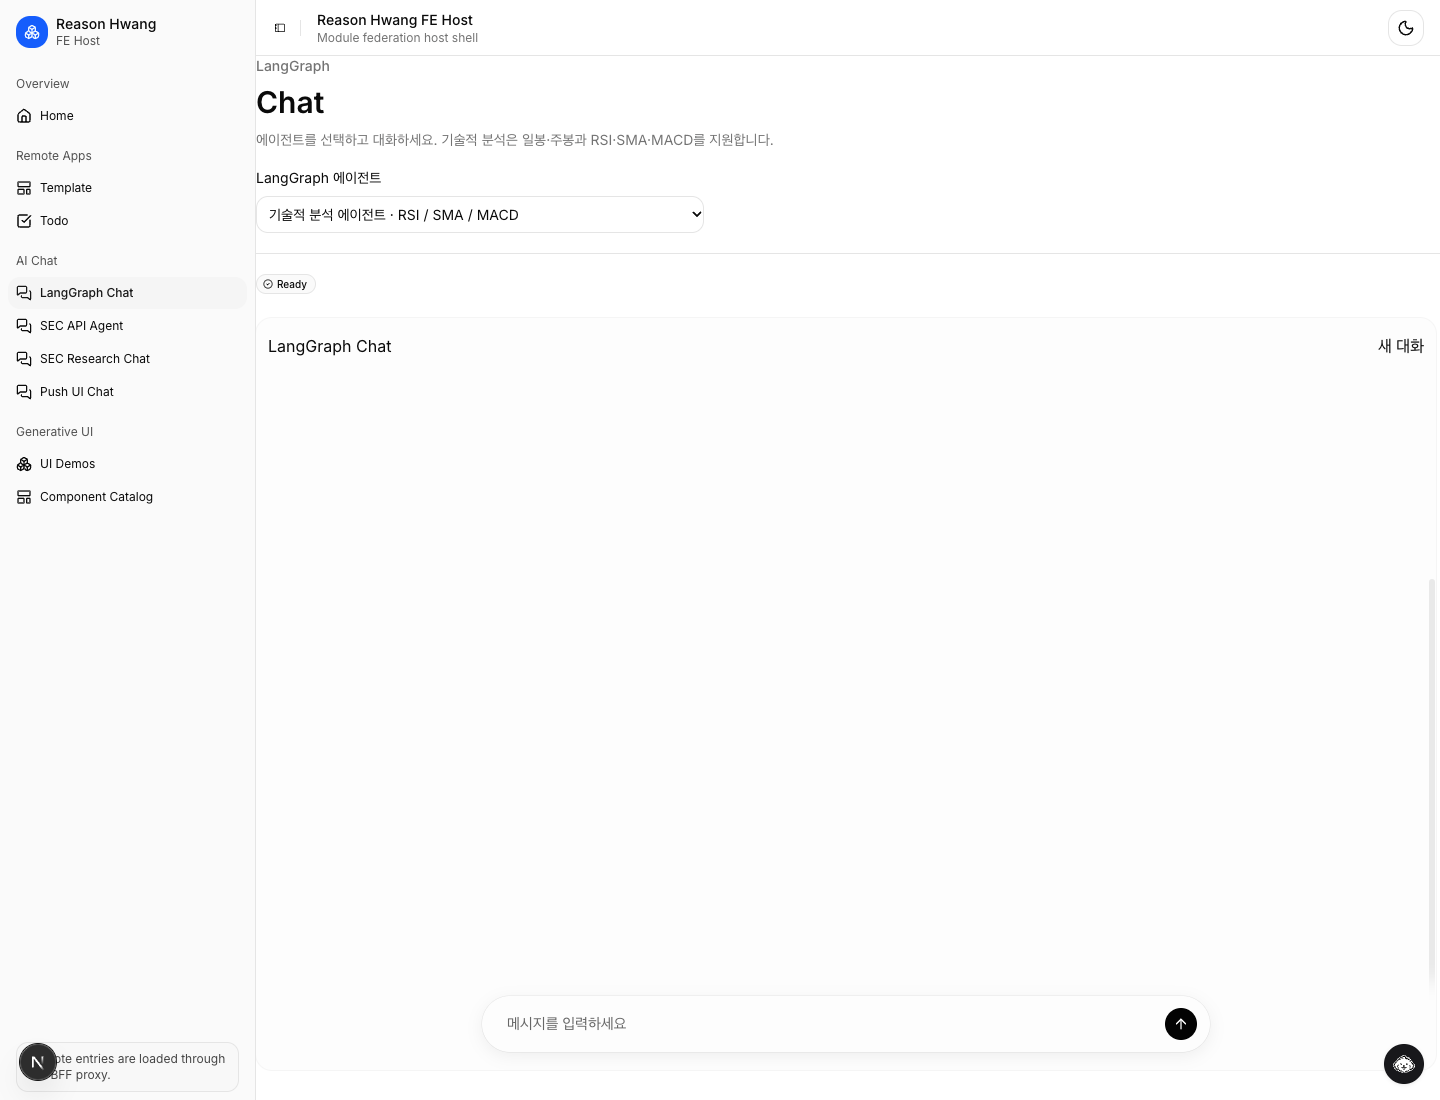
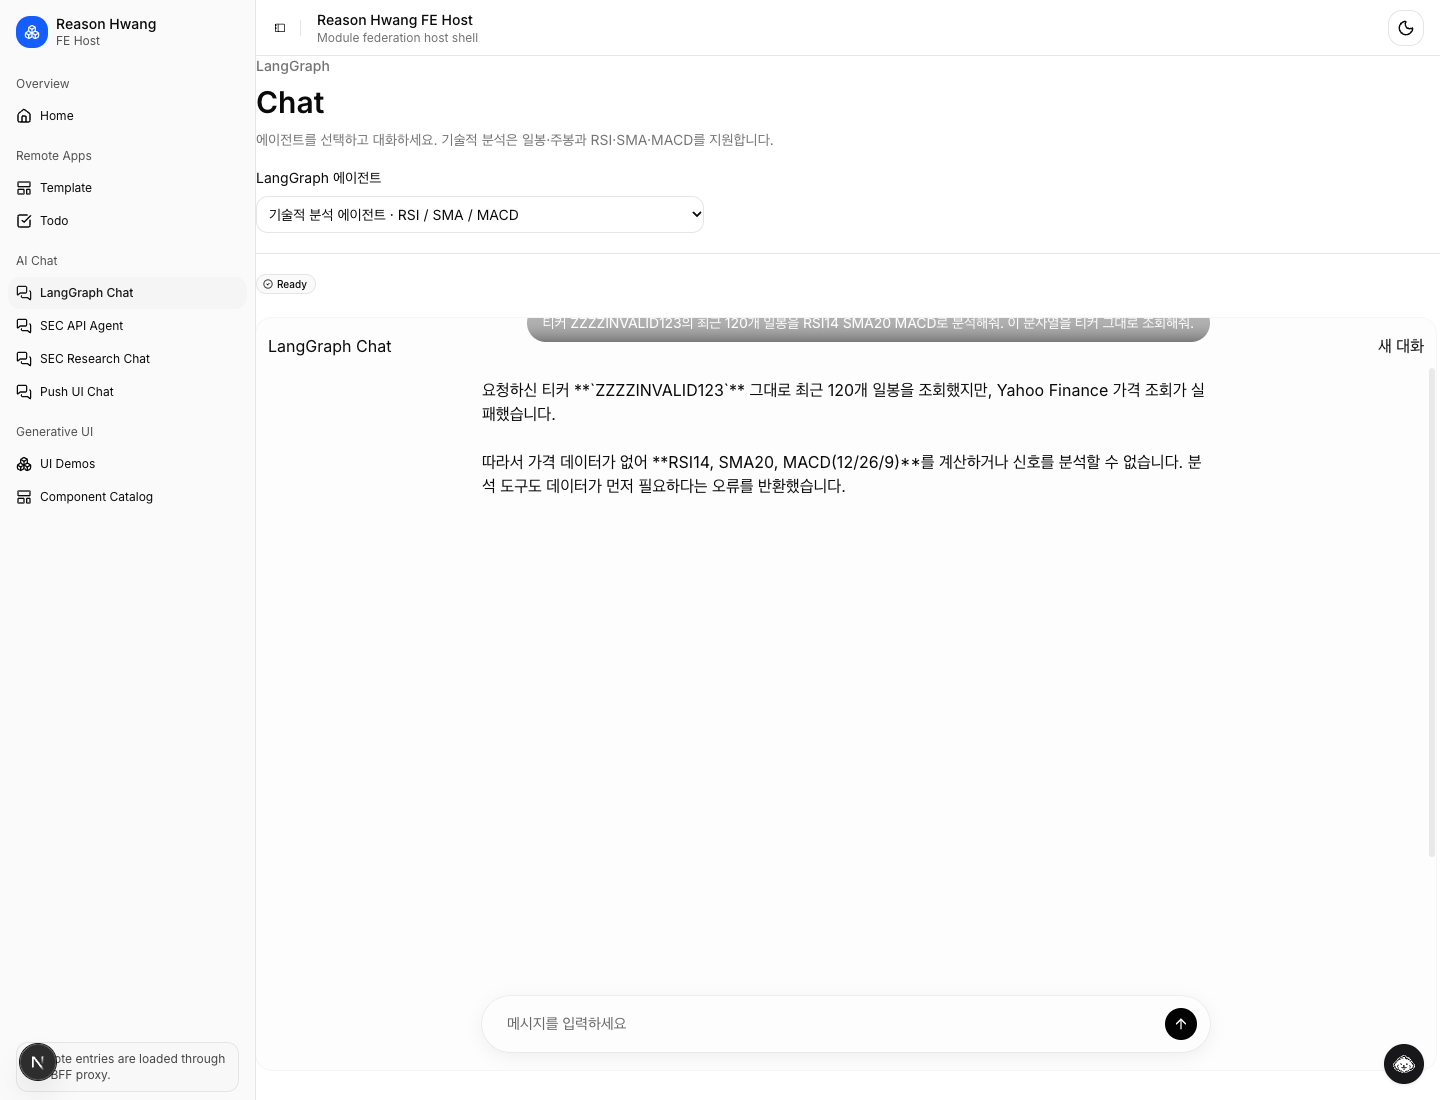
Capture readable technical analysis boundary responses

Changed region(s): [[0.3438, 0.34, 0.8125, 0.4636], [0.3438, 0.2782, 0.8438, 0.3091], [0.5312, 0.34, 0.8438, 0.3709]]

diff --git a/20-portfolio/1-reason-hwang/docs/flow/2026-11-14-technical-analysis-browser-validation.md b/20-portfolio/1-reason-hwang/docs/flow/2026-11-14-technical-analysis-browser-validation.md
@@ -22,3 +22,7 @@
 ## VAL-CLEANUP-001
 
 소유 서버 2982(PID 36255/36266), 2983(PID 36790) 정상 종료. 공식 browser_close 후 작업 Chrome PID 36305 종료. ps 및 lsof로 PID·2982/2983 리스닝 잔존 없음 확인. 기존 SSH proxy 2890과 공유 MCP 서버 유지. 브라우저/서비스 정리 완료.
+
+## 캡처 품질 재검수
+
+짧은 응답의 내부 스크롤 끝에 빈 공간이 있어 C06/C10 설명/C11 캡처를 재실행·재촬영했다. 최종 PNG는 실제 답변 문단을 표시한다. 재촬영 소유 runtime 38573/38575, Host 38595, Chrome 38616은 공식 종료와 세션 종료 신호 후 ps·lsof 잔존 없음으로 정리 확인했다.
